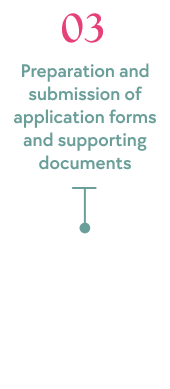
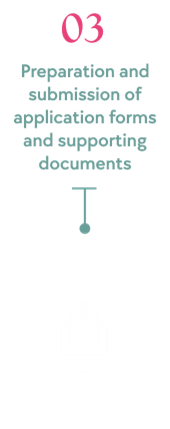
Infographics

Changed region(s): [[0.0882, 0.1234, 0.9118, 0.4936], [0.3529, 0.0308, 0.6176, 0.1234], [0.4706, 0.5244, 0.5294, 0.617]]

diff --git a/src/styles/ServiceInfographics.css b/src/styles/ServiceInfographics.css
@@ -18,14 +18,14 @@
 .infographics .regular {
   position: relative;
   left: 320px;
-  bottom: 315px;
+  bottom: 360px;
   width: 140px;
   cursor: pointer;
 }
 .infographics .preparation {
   position: relative;
   left: 510px;
-  bottom: 735px;
+  bottom: 830px;
   width: 160px;
   cursor: pointer;
 }
@@ -33,19 +33,19 @@
   position: relative;
   left: 715px;
   width: 140px;
-  bottom: 1030px;
+  bottom: 1155px;
   cursor: pointer;
 }
 .infographics .assistance {
   position: relative;
   left: 865px;
-  bottom: 1250px;
+  bottom: 1425px;
   width: 140px;
   cursor: pointer;
 }
 .content {
   position: relative;
-  bottom: 1330px;
+  bottom: 1550px;
 }
 .service-title {
   color: #000;
@@ -88,26 +88,26 @@
   .infographics .regular {
     width: 120px;
     left: 270px;
-    bottom: 285px;
+    bottom: 315px;
   }
   .infographics .preparation {
     width: 140px;
-    left: 420px;
-    bottom: 640px;
+    left: 425px;
+    bottom: 720px;
   }
   .infographics .post {
     width: 120px;
     left: 600px;
-    bottom: 895px;
+    bottom: 1005px;
   }
   .infographics .assistance {
     width: 120px;
     left: 725px;
-    bottom: 1085px;
+    bottom: 1240px;
   }
   .content {
     position: relative;
-    bottom: 1160px;
+    bottom: 1350px;
   }
   .service-title {
     font-size: 55px;
@@ -135,26 +135,26 @@
   .infographics .regular {
     width: 110px;
     left: 240px;
-    bottom: 265px;
+    bottom: 295px;
   }
   .infographics .preparation {
     width: 130px;
     left: 380px;
-    bottom: 600px;
+    bottom: 670px;
   }
   .infographics .post {
     width: 110px;
     left: 540px;
-    bottom: 830px;
+    bottom: 935px;
   }
   .infographics .assistance {
     width: 110px;
     left: 655px;
-    bottom: 1005px;
+    bottom: 1145px;
   }
   .content {
     position: relative;
-    bottom: 1080px;
+    bottom: 1245px;
   }
   .service-title {
     font-size: 55px;
@@ -182,26 +182,26 @@
   .infographics .regular {
     width: 100px;
     left: 210px;
-    bottom: 290px;
+    bottom: 325px;
   }
   .infographics .preparation {
     width: 120px;
     left: 335px;
-    bottom: 600px;
+    bottom: 670px;
   }
   .infographics .post {
     width: 100px;
     left: 480px;
-    bottom: 815px;
+    bottom: 915px;
   }
   .infographics .assistance {
     width: 100px;
     left: 580px;
-    bottom: 975px;
+    bottom: 1105px;
   }
   .content {
     position: relative;
-    bottom: 1045px;
+    bottom: 1215px;
   }
   .service-title {
     font-size: 55px;
